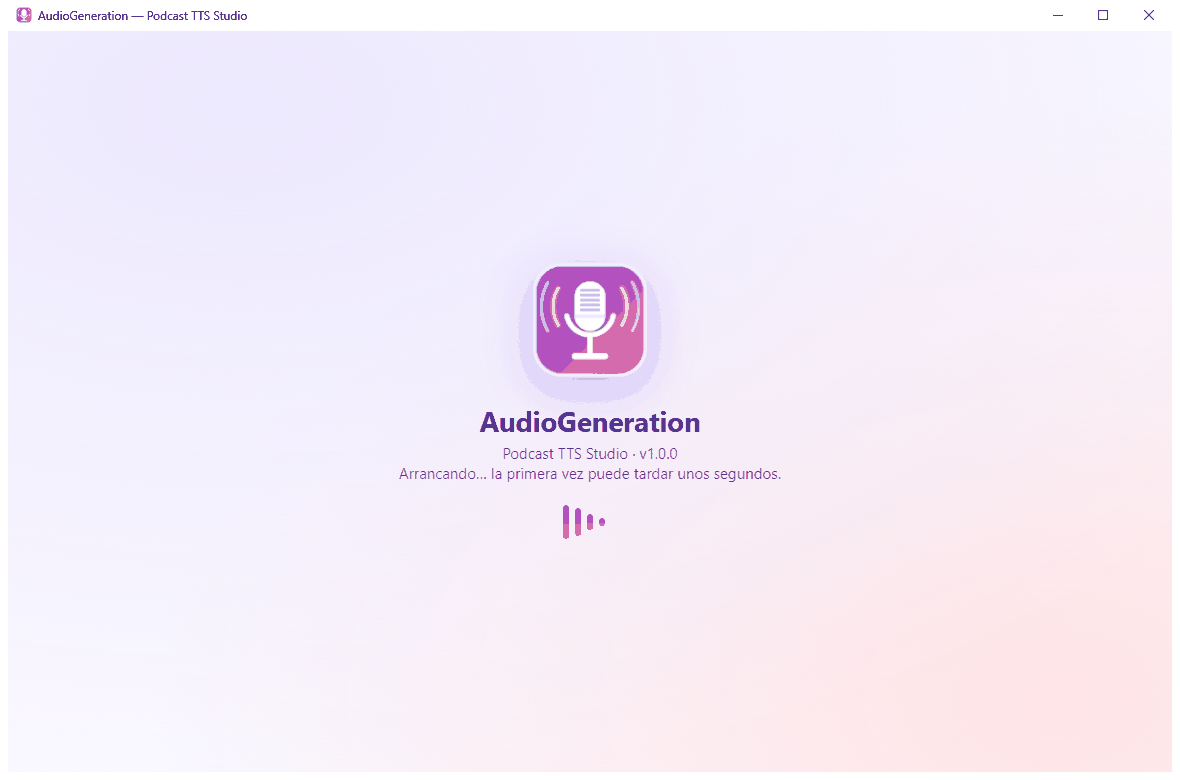
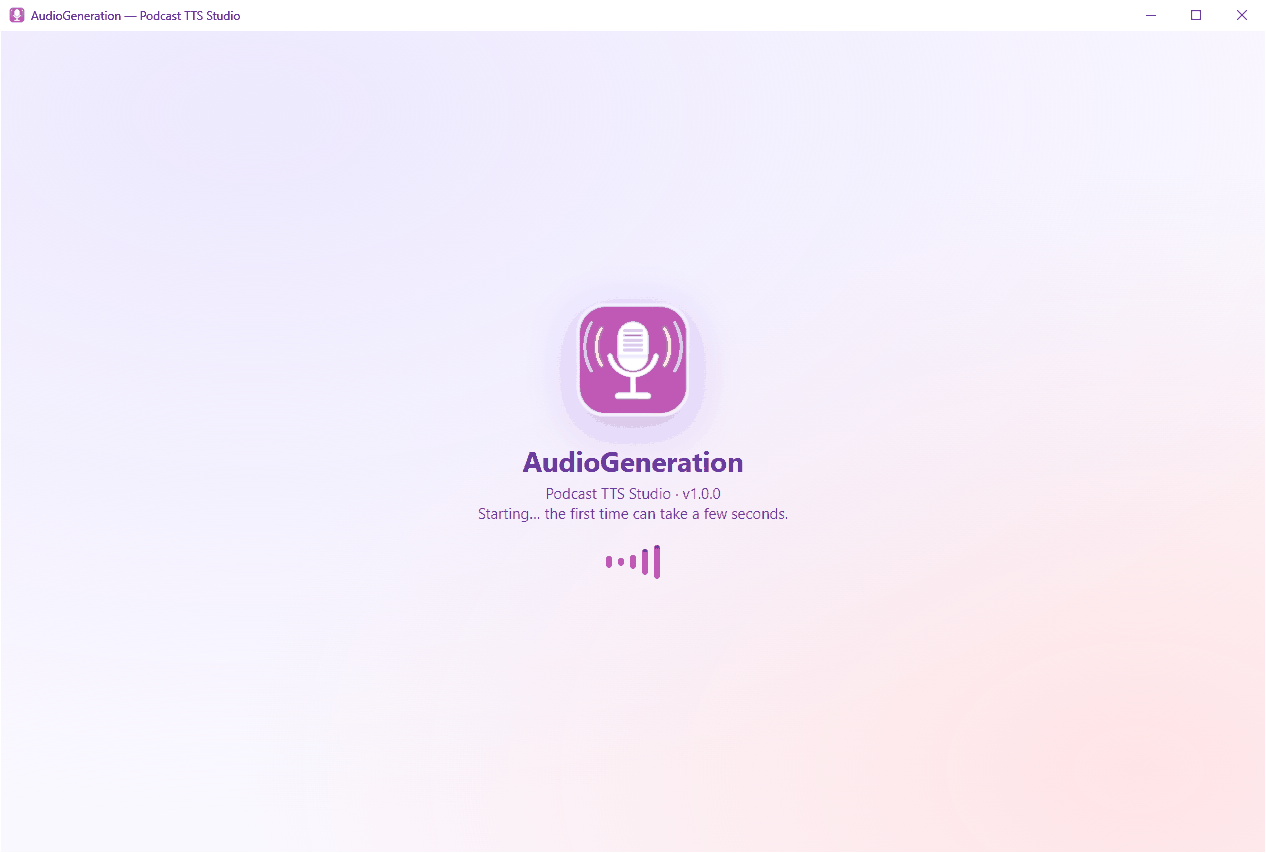
docs: retake screenshots with the English UI

diff --git a/README.md b/README.md
@@ -27,7 +27,7 @@ voices, music and sound effects, cloning voices from a 10-second clip, entirely 
 <table align="center">
   <tr>
     <td align="center"><img src="docs/img/voices.png" alt="Voices tab: available voices, selected voice and voice test" width="280"><br><sub>Voices</sub></td>
-    <td align="center"><img src="docs/img/settings.png" alt="Settings tab: API keys and table of engines and licenses" width="280"><br><sub>Settings: engines and licenses</sub></td>
+    <td align="center"><img src="docs/img/settings.png" alt="Settings tab: interface language, API keys and table of engines and licenses" width="280"><br><sub>Settings: language, API keys and licenses</sub></td>
     <td align="center"><img src="docs/img/desktop-loading.png" alt="Desktop app loading screen" width="280"><br><sub>Desktop app starting</sub></td>
   </tr>
 </table>

diff --git a/README.es.md b/README.es.md
@@ -28,7 +28,7 @@ propio PC.
 <table align="center">
   <tr>
     <td align="center"><img src="docs/img/voices.png" alt="Pestaña Voces: voces disponibles, voz seleccionada y prueba de voz" width="280"><br><sub>Voces</sub></td>
-    <td align="center"><img src="docs/img/settings.png" alt="Pestaña Ajustes: claves de API y tabla de motores y licencias" width="280"><br><sub>Ajustes: motores y licencias</sub></td>
+    <td align="center"><img src="docs/img/settings.png" alt="Pestaña Ajustes: idioma de la interfaz, claves de API y tabla de motores y licencias" width="280"><br><sub>Ajustes: idioma, claves de API y licencias</sub></td>
     <td align="center"><img src="docs/img/desktop-loading.png" alt="Pantalla de arranque de la app de escritorio" width="280"><br><sub>Arranque de la app de escritorio</sub></td>
   </tr>
 </table>
